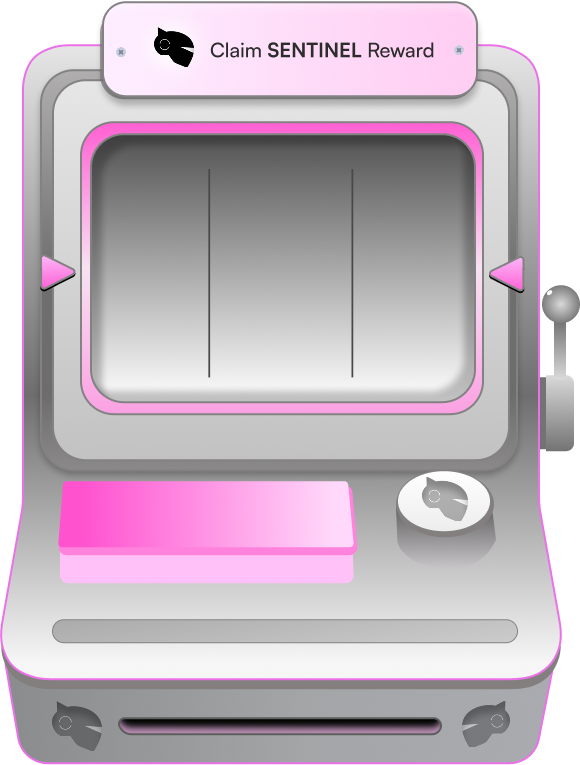
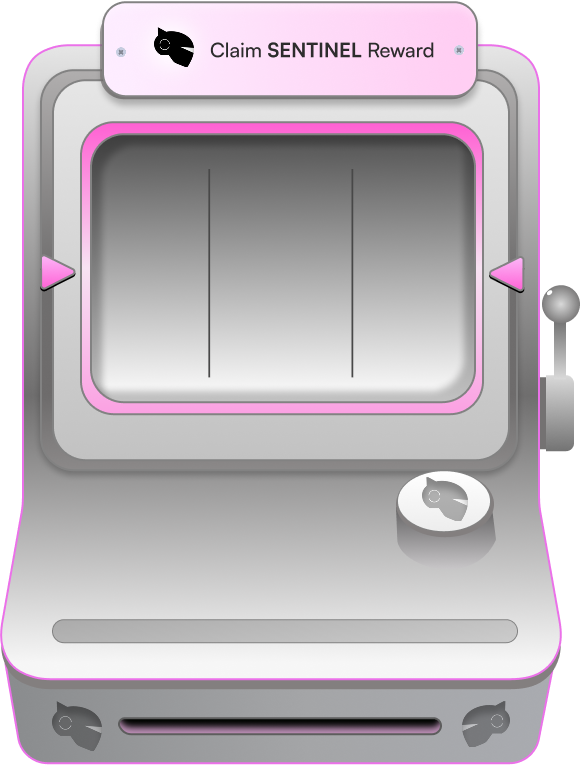
ui: Make the slot button click press UI

Changed region(s): [[0.0931, 0.6314, 0.6207, 0.7817]]

diff --git a/frontend/components/AttackStatusModal.tsx b/frontend/components/AttackStatusModal.tsx
@@ -2,13 +2,13 @@
 
 import { useState } from "react";
 import Link from "next/link";
-import Image from "next/image";
 import { X, Check, ChevronDown, ChevronUp, Swords } from "lucide-react";
 import { motion, AnimatePresence } from "framer-motion";
 import { Dialog } from "@/components/Dialog";
 import { ConsumePromptApiResponse } from "@/types";
 import { SUI_TESTNET_BASE_URL } from "@/constants";
 import { cn } from "@/lib/utils";
+import { SlotMachine } from "./slot-machine/SlotMachine";
 
 type AttackStatusModalProps = {
   apiResponse: ConsumePromptApiResponse;
@@ -140,18 +140,7 @@ export const AttackStatusModal = ({
             <p className="text-lg text-black">Try your luck!</p>
           </div>
 
-          <div className="relative w-full max-w-[320px] aspect-square flex items-center justify-center mt-8">
-            <div className="absolute inset-0 bg-pink-400/20 blur-[60px] rounded-full pointer-events-none transform translate-y-4 scale-90" />
-
-            <Image
-              src="/img/slot-machine.png"
-              alt="Bonus Spin Slot Machine"
-              width={290}
-              height={381}
-              className="relative z-10 object-contain drop-shadow-xl"
-              priority
-            />
-          </div>
+          <SlotMachine />
         </div>
       </motion.div>
     </Dialog>

diff --git a/frontend/components/slot-machine/SlotMachine.tsx b/frontend/components/slot-machine/SlotMachine.tsx
@@ -1,0 +1,27 @@
+import Image from "next/image";
+
+export const SlotMachine = () => {
+  return (
+    <div>
+      <div className="relative w-fit">
+        <Image
+          src="/img/slot-machine.png"
+          width={290}
+          height={381}
+          alt="slot machine"
+        />
+
+        <div className="overflow-hidden absolute bottom-[90px] left-[31px] w-[150px] h-[51px]">
+          <button className="transition-transform duration-100 active:translate-y-[14px]">
+            <Image
+              src="/img/slot-button.png"
+              width={150}
+              height={51}
+              alt="slot button"
+            />
+          </button>
+        </div>
+      </div>
+    </div>
+  );
+};
